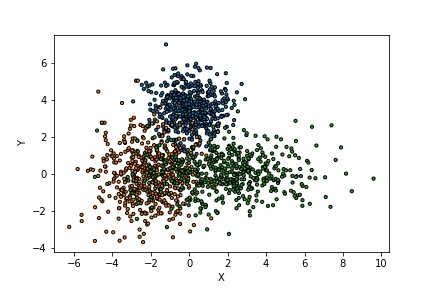
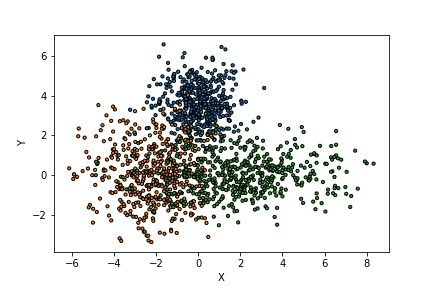
corrections added

diff --git a/doc/tutorial_classification.rst b/doc/tutorial_classification.rst
@@ -6,54 +6,55 @@
 Tutorial
 ========
 
-In this tutorial, we compare the prediction sets estimating by Mapieclassifier in a two-dimensional dataset with three labels. The distribution of the data is a bivariate normal with diagonal covariance matrices for each label. 
+In this tutorial, we compare the prediction sets estimating by :class:`mapie.classification.MapieClassifier`.
 
 Throughout this tutorial, we will answer the following questions:
 
-How do the number of class in the prediction sets vary according to the values of alpha with the Conformal Prediction method ?
+- How do the number of classes in the prediction sets vary according to the significance level alpha values and the conformity scores ?
 
 1. Conformal Prediction method using the softmax score of the true label
-=====================================================================
+========================================================================
+We will use MAPIE to estimate a prediction set of several classes such that the probability that the true label of a new test point is included in the prediction set is always higher than the target confidence level 1−alpha.
 
+* First we generate a dataset with train and test and the Model is fitted in the training set.
+* We set the conformal score :math:`Si = f(X_{i})_{yi}` the softmax output of the true class for each sample in the training set.
+* Then we define :math:`q` as being the :math:`(n + 1) (α) / n` previous quantile of :math:`S_{1}, ..., S_{n}` (this is essentially the quantile :math:`α`, but with a small correction). 
+* Finally, for a new test data point (where Xn + 1 is known but Yn + 1 is not), create a prediction set :math:`T(X_{n+1}) = {y: f(X_{n+1})_{y} > q}` which includes all the classes with a sufficiently high softmax output.
 
-* First we split the dataset in train/calib/test and the Model is fitted in the training set.
-* We set the conformal score Si = f(Xi)Yi the softmax output of the true class for each sample in the calibration set.
-* Then we define q as being the (n + 1) (α) ⌉ / n previous quantile of S1, ..., Sn (this is essentially the quantile α, but with a small correction). 
-* Finally, for a new test data point (where Xn + 1 is known but Yn + 1 is not), create a prediction set T (Xn + 1) = {y: f (Xn + 1) y > q} which includes all the classes with a sufficiently high softmax output.
+We use a two-dimensional dataset with three labels. The distribution of the data is a bivariate normal with diagonal covariance matrices for each label. 
 
 .. code-block:: python
 
-   import numpy as np
-   # Create training set from multivariate normal distribution
-   centers = [(0, 3.5), (-2, 0), (2, 0)]
-   covs = [[[1, 0], [0, 1]], [[2, 0], [0, 2]], [[5, 0], [0, 1]]]
-   x_min, x_max, y_min, y_max, step = -5, 7, -5, 7, 0.1
-   n_samples = 500
-   alphas = [0.2, 0.1, 0.05]
-   X_train = np.zeros((3*n_samples, 2))
-   i = 0
-   for center, cov in zip(centers, covs):
-       (
-           X_train[i*n_samples:(i+1)*n_samples, 0],
-           X_train[i*n_samples:(i+1)*n_samples, 1]
-       ) = np.random.multivariate_normal(center, cov, n_samples).T
-       i += 1
-   y_train = np.stack([i for i in range(3) for _ in range(n_samples)]).ravel()
+    import numpy as np
+    # Create training set from multivariate normal distribution
+    centers = [(0, 3.5), (-2, 0), (2, 0)]
+    # covs = [[[1, 0], [0, 1]], [[2, 0], [0, 2]], [[5, 0], [0, 1]]]
+    covs = [np.eye(2), np.eye(2)*2, np.diag([5, 1])]
+    x_min, x_max, y_min, y_max, step = -6, 8, -6, 8, 0.1
+    n_samples = 500
+    n_classes = 3
+    alpha = [0.2, 0.1, 0.05]
+    np.random.seed(42)
+    X_train = np.vstack([
+        np.random.multivariate_normal(center, cov, n_samples)
+        for center, cov in zip(centers, covs)
+    ])
+    y_train = np.hstack([np.full(n_samples, i) for i in range(n_classes)])
 
-   # Create test from (x, y) coordinates
-   X_test = np.stack([
-       [x, y]
-       for x in np.arange(x_min, x_max, step)
-       for y in np.arange(x_min, x_max, step)
-   ])
+
+    # Create test from (x, y) coordinates
+    xx, yy = np.meshgrid(
+        np.arange(x_min, x_max, step), np.arange(x_min, x_max, step)
+    )
+    X_test = np.stack([xx.ravel(), yy.ravel()], axis=1)
 
 Let's see our training data
 
 .. code-block:: python
 
    import matplotlib.pyplot as plt
-   colors = ['#1f77b4', '#ff7f0e', '#2ca02c', '#d62728']
-   y_train_col = [colors[int(i)] for _, i in enumerate(y_train)]
+   colors = {0: "#1f77b4", 1: "#ff7f0e", 2:  "#2ca02c", 3: "#d62728"}
+   y_train_col = list(map(colors.get, y_train))
    fig = plt.figure()
    plt.scatter(
        X_train[:, 0],
@@ -70,7 +71,7 @@ Let's see our training data
 .. image:: images/tuto_classification_1.jpeg
     :align: center
 
-We fit our training data with a Gaussian Naive Base estimator. And then we apply mapieclassifier to the estimator indicating that it has already been fitted.
+We fit our training data with a Gaussian Naive Base estimator. And then we apply :class:`mapie.classification.MapieClassifier` with the method ``score`` to the estimator indicating that it has already been fitted.
 We then estimate the prediction sets with differents alphas with a
 ``fit`` and ``predict`` process. 
 
@@ -93,9 +94,8 @@ We then estimate the prediction sets with differents alphas with a
 
 .. code-block:: python
 
-   def plot_scores(n, scores, quantiles):    
-       print(quantiles)   
-       colors = ['#1f77b4', '#ff7f0e', '#2ca02c']
+   def plot_scores(n, scores, quantiles):      
+       colors = {0:'#1f77b4', 1:'#ff7f0e', 2:'#2ca02c'}
        fig = plt.figure()
        plt.hist(scores, bins='auto')
        i=0         
@@ -103,15 +103,17 @@ We then estimate the prediction sets with differents alphas with a
            plt.vlines(x = quantile, ymin=0, ymax=600, color = colors[i], linestyles = 'dashed',label='test') 
            i=i+1
        plt.title("Distribution of scores")
-       plt.legend(alphas)
+       plt.legend(alphas,title="alpha = ")
        plt.xlabel("scores")
        plt.ylabel("count")
        plt.show()
 
    def plot_result(alphas, y_pred_mapie, y_ps_mapie):
        tab10 = plt.cm.get_cmap('Purples', 4)
-       y_pred_col = [colors[int(i)] for _, i in enumerate(y_pred_mapie)]
-       fig, axs = plt.subplots(1, 4, figsize=(20, 4))
+       colors = {0: "#1f77b4", 1: "#ff7f0e", 2:  "#2ca02c", 3: "#d62728"}
+       y_pred_col = list(map(colors.get, y_pred_mapie))
+       fig, [[ax1, ax2], [ax3, ax4]] = plt.subplots(2, 2, figsize=(10, 10))
+       axs = {0: ax1, 1: ax2, 2:  ax3, 3: ax4}
        axs[0].scatter(
            X_test[:, 0],
            X_test[:, 1],
@@ -136,10 +138,7 @@ We then estimate the prediction sets with differents alphas with a
            )
            cbar = plt.colorbar(num_labels, ax=axs[i+1])
            coverage= classification_coverage_score(y_pred_mapie,y_ps_mapie[:,:,i])
-           axs[i+1].set_title(
-               f"Number of labels for alpha={alpha}: ({1 - alpha:.3f}, {coverage:.3f})",
-               fontsize=8
-           )
+           axs[i+1].set_title(f"Number of labels for alpha={alpha_}")
        plt.show()
 
 Let's see the distribution of the scores with the calculated quantiles.
@@ -154,6 +153,8 @@ Let's see the distribution of the scores with the calculated quantiles.
 .. image:: images/tuto_classification_2.jpeg
     :align: center
 
+The estimated quantile depends on alpha and a high value of alpha can potentially lead to a high quantile which would not necessarily be reached by any class in uncertain areas.
+
 We will now compare the differences between the prediction sets of the different values of alpha.
 
 .. code-block:: python
@@ -164,6 +165,6 @@ We will now compare the differences between the prediction sets of the different
     :align: center
 
 When the class coverage is not large enough, the prediction sets can be empty
-when the model is uncertain at the border between two labels. The null region
+when the model is uncertain at the border between two class. The null region
 disappears for larger class coverages but ambiguous classification regions
 arise with several labels included in the prediction sets.
